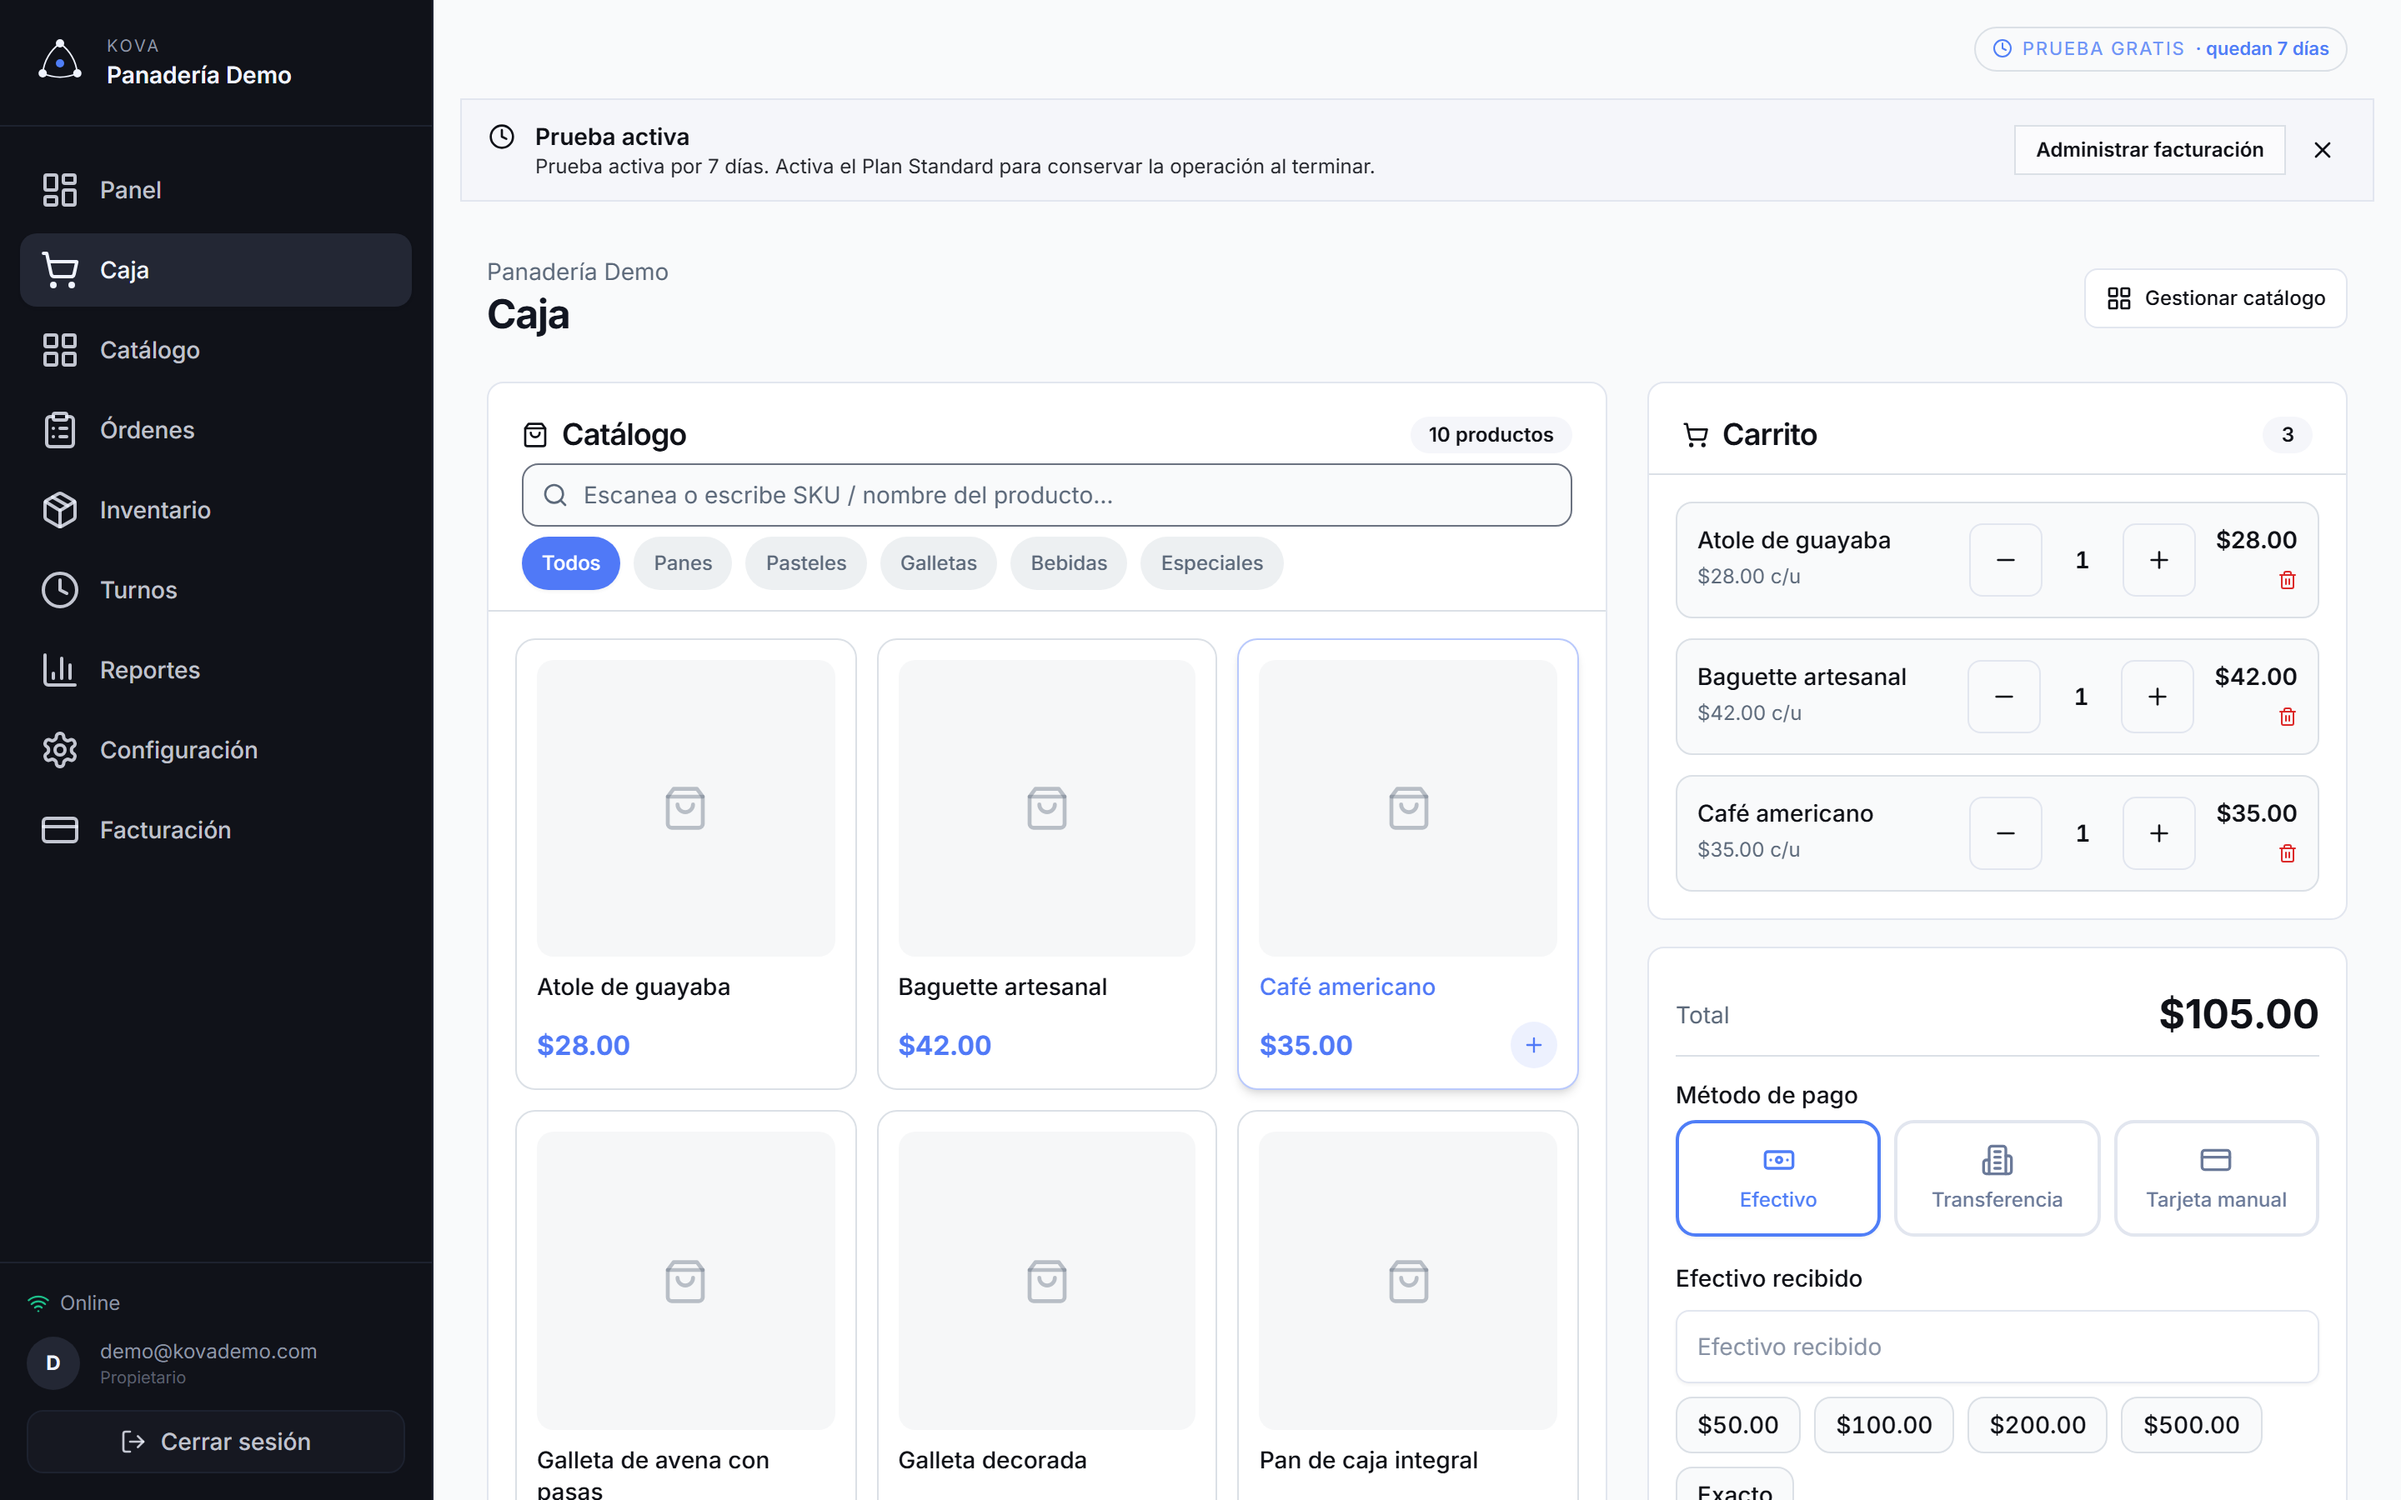
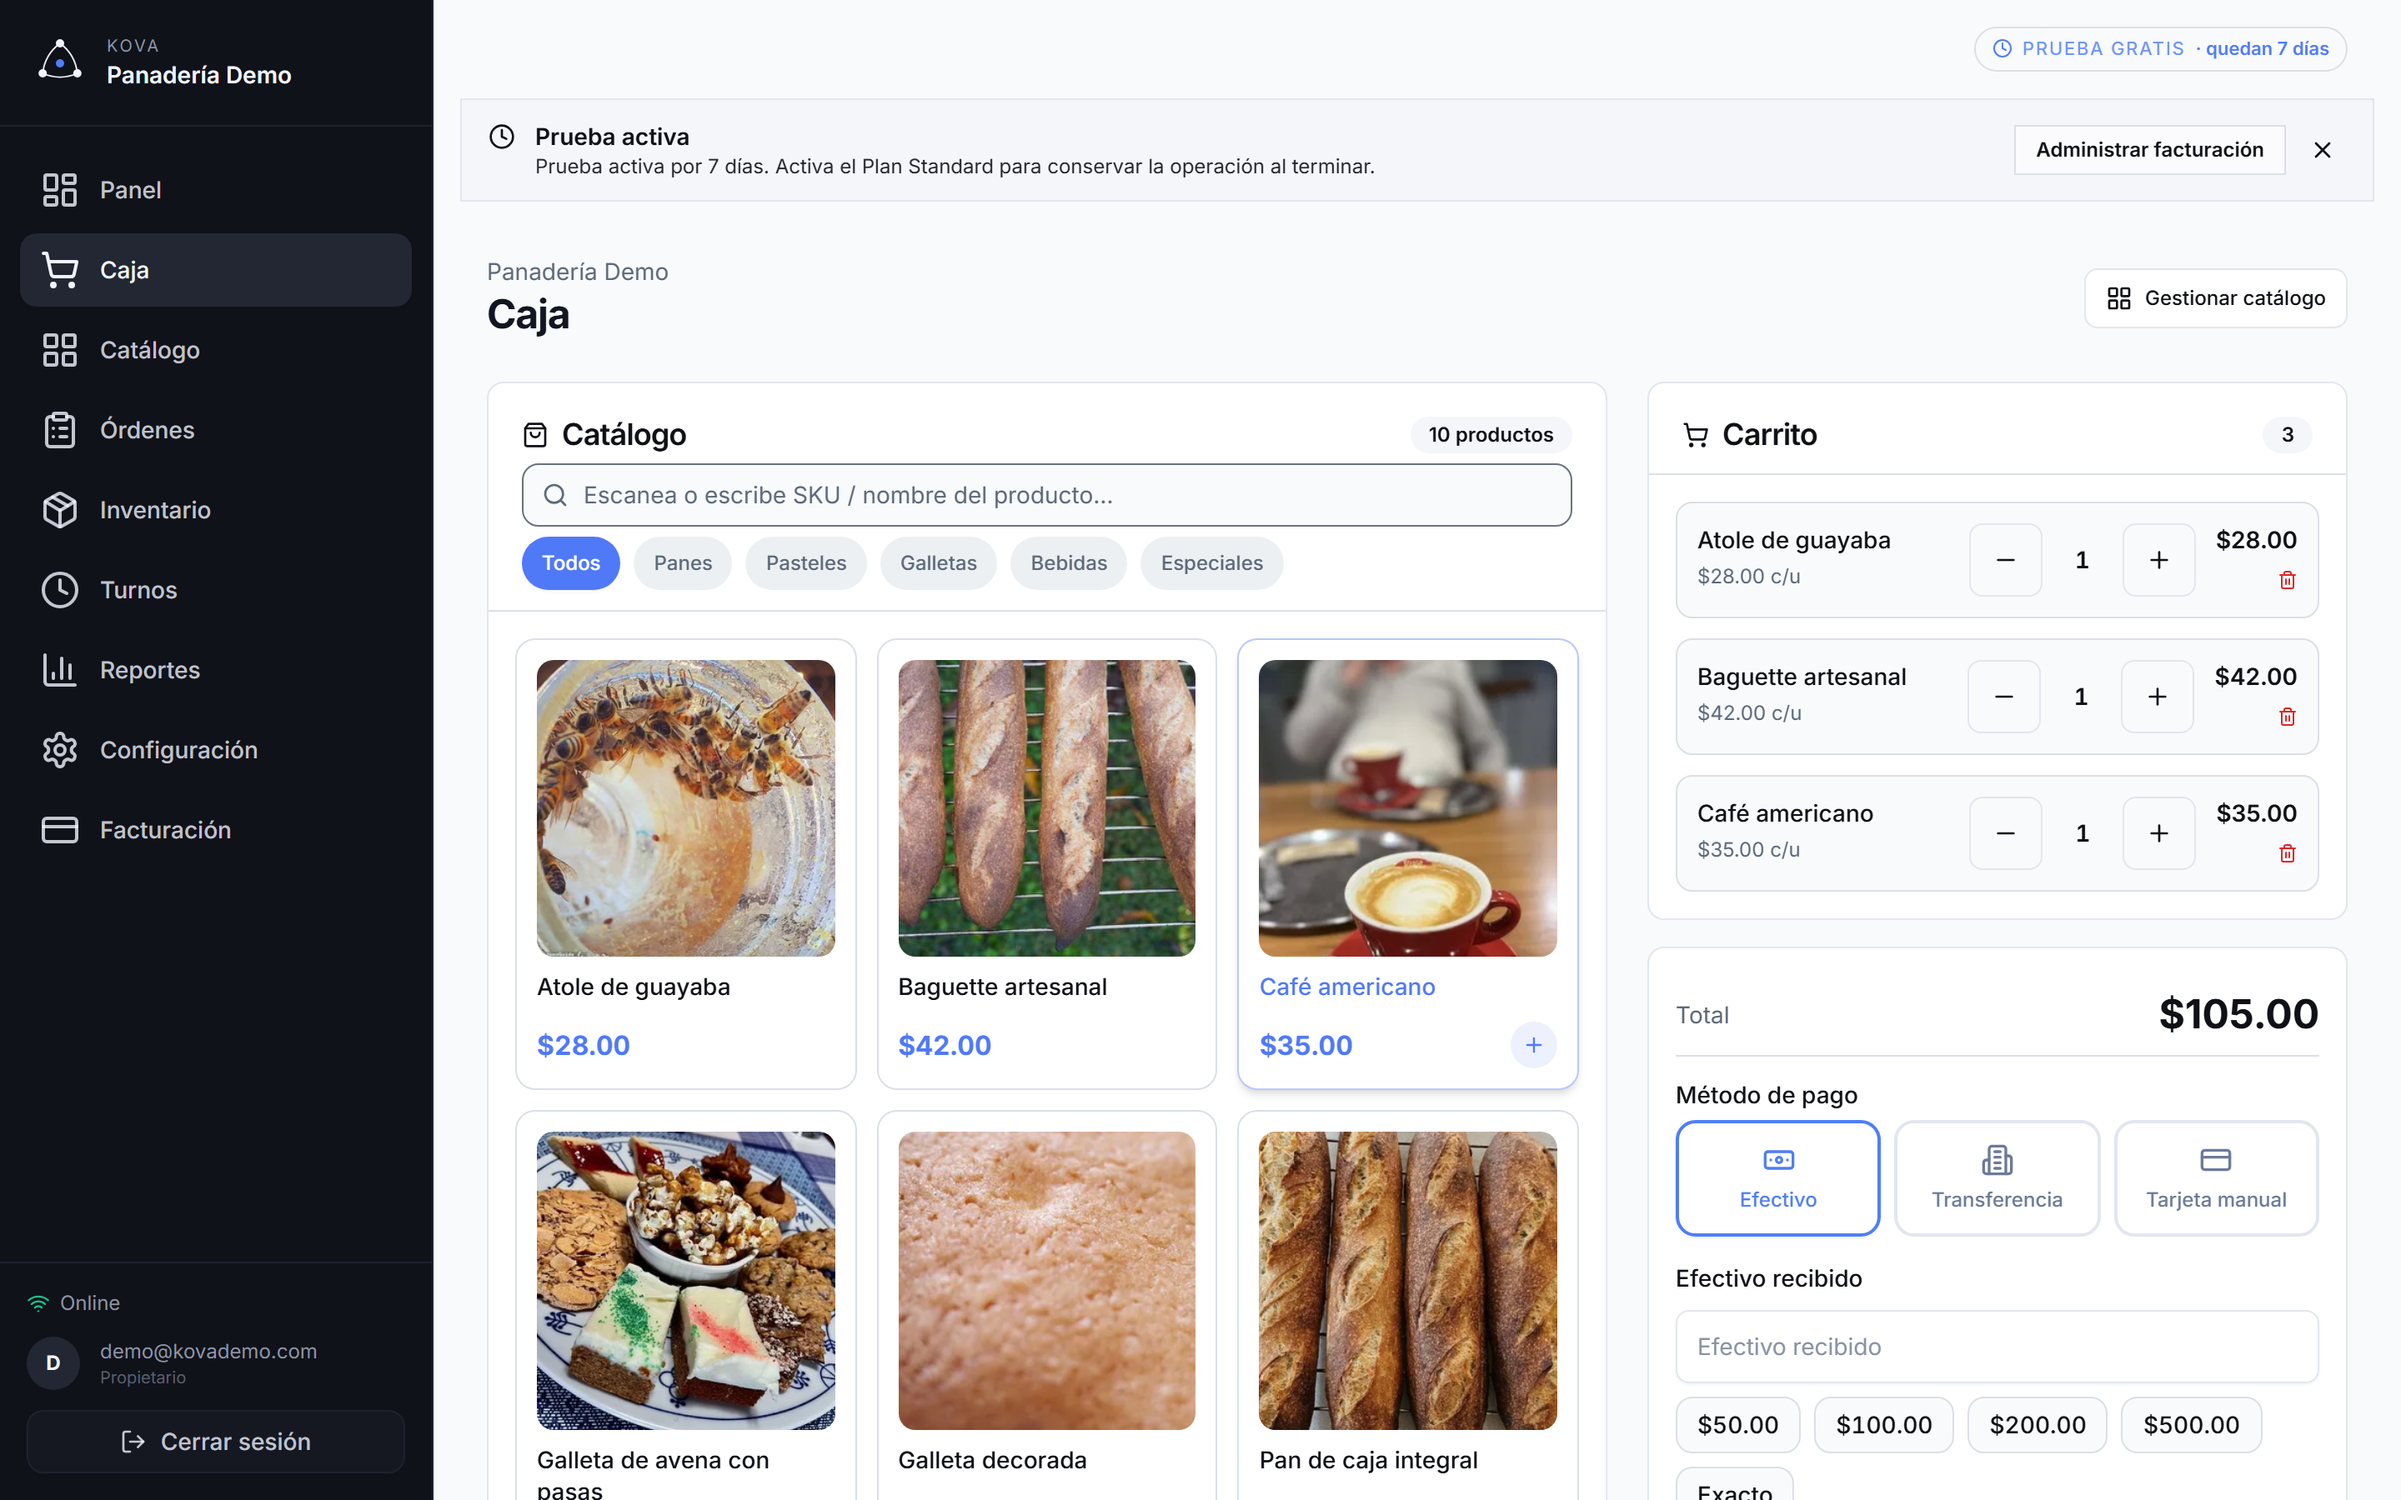
feat(showcase): seed real product photos for the demo catalog
The POS catalog showed placeholder icons because the demo products had no
images. Seed a photo per product (fetched by keyword, with a generated gradient
tile as an offline fallback) into product_image_files, so the showcase POS
shows real bakery photos. Re-captured pos/caja screenshots.

Changed region(s): [[0.2188, 0.7467, 0.6562, 0.9644], [0.2188, 0.4356, 0.6562, 0.6533]]

diff --git a/backend/scripts/seed_demo_sales.py b/backend/scripts/seed_demo_sales.py
@@ -17,8 +17,10 @@ Usage (inside the backend container or env):
     uv run python scripts/seed_demo_sales.py  # this script
 """
 import sys
+import urllib.request
 from datetime import UTC, datetime, timedelta
 from decimal import ROUND_CEILING, Decimal
+from io import BytesIO
 from pathlib import Path
 from uuid import uuid4
 
@@ -31,7 +33,7 @@ import seed_demo
 from app.auth.models import Membership, User
 from app.auth.service import hash_password
 from app.business_settings.models import BusinessProfile, ReceiptSettings
-from app.catalog.models import Product
+from app.catalog.models import Product, ProductImageFile
 from app.config import settings
 from app.inventory import repository as inventory_repo
 from app.orders import service as orders_service
@@ -77,6 +79,88 @@ RECIPES = [
 # cash dominates, with transfers and card mixed in (index → method).
 METHODS = ["cash", "cash", "bank_transfer", "cash", "manual_card",
            "cash", "cash", "manual_card", "bank_transfer", "cash"]
+
+# Per-SKU photo keywords (real bakery photos fetched by keyword). The marketing
+# showcase looks far better with product photos than placeholder icons.
+IMAGE_KEYWORDS = {
+    "PAN-001": "bread,loaf",
+    "PAN-002": "baguette,bread",
+    "PAS-001": "chocolate,cake",
+    "PAS-002": "vanilla,cake",
+    "GAL-001": "oatmeal,cookie",
+    "GAL-002": "cookie,biscuit",
+    "BEB-001": "coffee,cup",
+    "BEB-002": "hot,chocolate,drink",
+    "ESP-001": "sweet,bread,pastry",
+    "ESP-002": "pastry,bun",
+}
+
+
+def _fetch_photo(keywords: str, lock: int) -> bytes | None:
+    """Download a real photo for the given keywords, or None if offline."""
+    url = f"https://loremflickr.com/640/480/{keywords}?lock={lock}"
+    try:
+        req = urllib.request.Request(url, headers={"User-Agent": "kova-seed"})
+        with urllib.request.urlopen(req, timeout=15) as resp:  # noqa: S310 (trusted URL)
+            data = resp.read()
+        return data if data and len(data) < 1_000_000 else None
+    except Exception:
+        return None
+
+
+def _generated_tile(label: str, index: int) -> tuple[bytes, str]:
+    """Fallback: a warm gradient tile with the product name (needs no network)."""
+    from PIL import Image, ImageDraw
+
+    w, h = 640, 480
+    palettes = [
+        ((247, 224, 198), (214, 162, 116)),
+        ((236, 213, 226), (190, 142, 170)),
+        ((214, 230, 245), (140, 178, 214)),
+        ((226, 240, 219), (150, 196, 142)),
+    ]
+    top, bottom = palettes[index % len(palettes)]
+    img = Image.new("RGB", (w, h), top)
+    draw = ImageDraw.Draw(img)
+    for y in range(h):
+        t = y / h
+        draw.line(
+            [(0, y), (w, y)],
+            fill=tuple(int(top[c] + (bottom[c] - top[c]) * t) for c in range(3)),
+        )
+    draw.text((28, h - 56), label, fill=(60, 40, 30))
+    buf = BytesIO()
+    img.save(buf, format="PNG")
+    return buf.getvalue(), "image/png"
+
+
+def _seed_product_images(db: Session, *, tenant_id, products: dict) -> int:
+    """Attach a photo to each product that doesn't have one yet (idempotent)."""
+    seeded = 0
+    for index, (sku, product) in enumerate(sorted(products.items())):
+        exists = (
+            db.query(ProductImageFile)
+            .filter(ProductImageFile.product_id == product.id)
+            .first()
+        )
+        if exists is not None:
+            continue
+        keywords = IMAGE_KEYWORDS.get(sku, "bakery,food")
+        data = _fetch_photo(keywords, lock=index + 1)
+        content_type = "image/jpeg"
+        if data is None:
+            data, content_type = _generated_tile(product.name, index)
+        now = datetime.now(UTC)
+        db.add(ProductImageFile(
+            id=uuid4(), tenant_id=tenant_id, product_id=product.id,
+            content_type=content_type, bytes_data=data, byte_size=len(data),
+            created_at=now, updated_at=now,
+        ))
+        product.image_url = f"/api/v1/catalog/products/{product.id}/image?v={int(now.timestamp())}"
+        product.updated_at = now
+        db.flush()
+        seeded += 1
+    return seeded
 
 
 def _ceil_50(total: Decimal) -> Decimal:
@@ -144,6 +228,18 @@ def main() -> None:
                 footer="¡Gracias por tu compra! Síguenos @panaderiademo",
             ))
         db.commit()
+
+        # Product photos so the POS catalog shows real images, not placeholder
+        # icons. Idempotent + before the guard so re-runs backfill them.
+        catalog = {
+            p.sku: p
+            for p in db.query(Product).filter(Product.tenant_id == tenant.id).all()
+            if p.sku
+        }
+        image_count = _seed_product_images(db, tenant_id=tenant.id, products=catalog)
+        db.commit()
+        if image_count:
+            print(f"  Seeded {image_count} product photos.")
 
         # 2. Idempotency: bail if this tenant already has orders.
         if db.query(Order).filter(Order.tenant_id == tenant.id).first() is not None:
